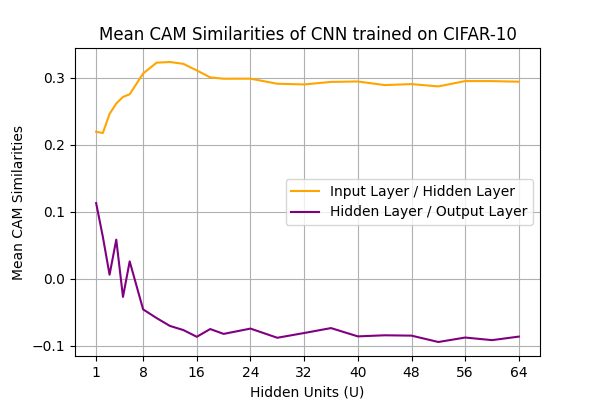
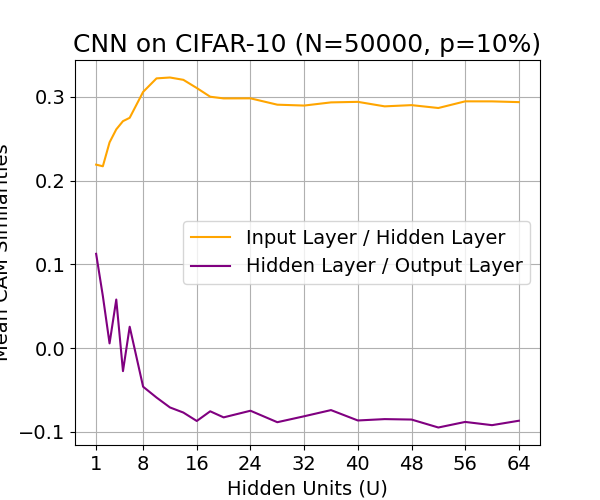
Final Submission

diff --git a/test_sparsity.py b/test_sparsity.py
@@ -52,11 +52,14 @@ def plot_activation_ratio(args, hidden_units, activation_ratio_list):
     ax.plot(hidden_units, activation_ratio_list, label='Activation Ratio', color='pink')
     ax.set_ylim([0, 1.05])
 
+    ax.tick_params(axis='x', labelsize=14)
+    ax.tick_params(axis='y', labelsize=14)
+
     # Add a legend
     plt.legend()
-    plt.xlabel('Hidden Units (U)')
-    plt.ylabel('Frequency')
-    plt.title(f'Activation Ratio of {args.model} trained on {args.dataset}')
+    plt.xlabel('Hidden Units (U)', fontsize=14)
+    plt.ylabel('Frequency', fontsize=14)
+    plt.title(f'Activation Ratio of {args.model} trained on {args.dataset}', fontsize=18)
     plt.grid()
 
     # Show the plot
@@ -124,15 +127,18 @@ def plot_neural_ndcg(args, hidden_units, ndcg_list):
     ax.set_xscale('function', functions=plotlib.scale_function)
     ax.set_xticks(plotlib.x_ticks[1:])
 
+    ax.tick_params(axis='x', labelsize=14)
+    ax.tick_params(axis='y', labelsize=14)
+
     # Plot the line graph
     ax.plot(hidden_units[5:], ndcg_list[5:], label='Activation Ratio', color='olive')
     ax.set_ylim([0, 0.2])
 
     # Add a legend
     plt.legend()
-    plt.xlabel('Hidden Units (U)')
-    plt.ylabel('Normalized Discounted Cumulative Gain (NDCG)')
-    plt.title(f'NDCG of Neurons of {args.model} trained on {args.dataset}')
+    plt.xlabel('Hidden Units (U)', fontsize=14)
+    plt.ylabel('Normalized Discounted Cumulative Gain (NDCG)', fontsize=14)
+    plt.title(f'NDCG of Neurons of {args.model} trained on {args.dataset}', fontsize=18)
     plt.grid()
 
     # Show the plot

diff --git a/test_activation.py b/test_activation.py
@@ -138,7 +138,7 @@ def plot_cam_correlation(args, correlation_dict, hidden_units):
     # hf_list = np.mean(correlation_dict['Hidden'], axis=0)
 
     # Set up the matplotlib figure
-    plt.figure(figsize=(6, 4))
+    plt.figure(figsize=(6, 5))
     ax = plt.gca()
 
     # Use globally defined PlotLib for labels, ticks and scaling function
@@ -152,17 +152,21 @@ def plot_cam_correlation(args, correlation_dict, hidden_units):
         ax.set_xscale('function', functions=plotlib.scale_function)
     ax.set_xticks(plotlib.x_ticks)
 
+    ax.tick_params(axis='x', labelsize=14)
+    ax.tick_params(axis='y', labelsize=14)
+
     # Plot the line chart
     plt.plot(hidden_units, cam_1_list, label='Input Layer / Hidden Layer', color='orange')
     plt.plot(hidden_units, cam_2_list, label='Hidden Layer / Output Layer', color='purple')
 
     # Add labels and title
-    plt.xlabel('Hidden Units (U)')
-    plt.ylabel('Mean CAM Similarities')
-    plt.title(f'Mean CAM Similarities of {args.model} trained on {args.dataset}')
+    plt.xlabel('Hidden Units (U)', fontsize=14)
+    plt.ylabel('Mean CAM Similarities', fontsize=14)
+    plt.title(f'{args.model} on {args.dataset} (N=%d, p=%d%%)' %
+              (args.sample_size, args.noise_ratio * 100), fontsize=18)
 
     # Add a legend
-    plt.legend()
+    plt.legend(fontsize=14)
     plt.grid()
 
     # Show the plot
